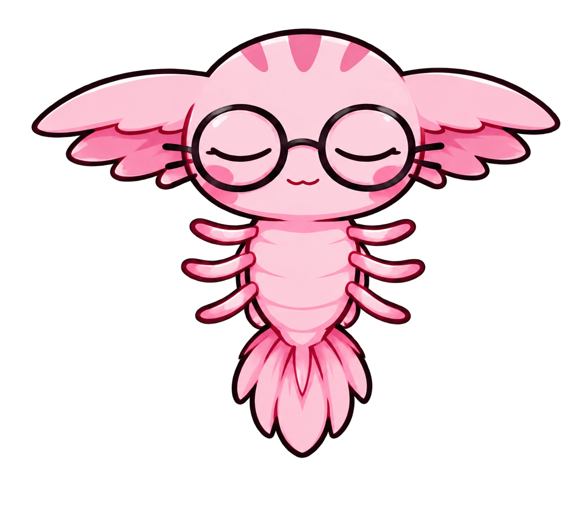
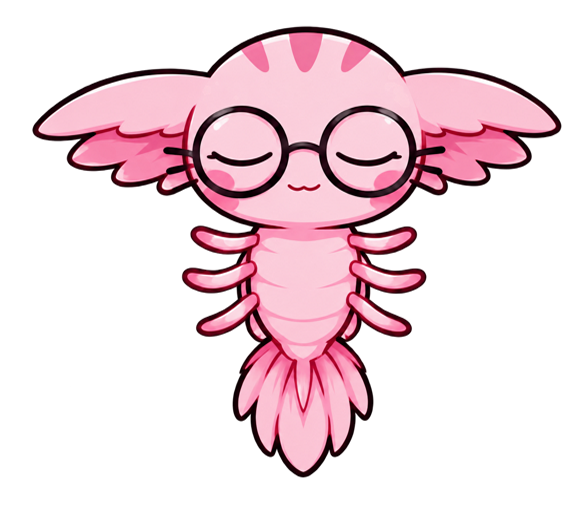
feat: add subtle awake breathing animation for Rosea

diff --git a/components/mascot/floating-mascot.tsx b/components/mascot/floating-mascot.tsx
@@ -65,6 +65,19 @@ const EXPRESSION_CROSSFADE_MS = 100;
 const SLEEP_BREATH_SCALE = 1.025;
 const SLEEP_BREATH_HALF_CYCLE = 2200; // tam döngü ≈ 4400 ms
 
+/**
+ * Uyanık nefesi: uyku nefesinden çok daha küçük ve **ayrı** bir katman.
+ *
+ * Yalnızca ölçek kullanılır — `translateX/Y` yoktur, bu yüzden kayıtlı konum,
+ * kenardan bakma mesafesi ve kenar rotasyonu hiç etkilenmez. Gövde nefes
+ * alırken hafifçe uzayıp incelir: dikeyde büyürken yatayda çok az daralır.
+ */
+const AWAKE_BREATH_SCALE_Y = 1.014;
+const AWAKE_BREATH_SCALE_X = 0.994;
+const AWAKE_BREATH_HALF_CYCLE = 1650; // tam döngü ≈ 3300 ms
+/** Koşul bozulduğunda ölçeğin tam 1'e döndüğü kısa, yumuşak geçiş. */
+const AWAKE_BREATH_RELEASE_DURATION = 260;
+
 /** Görünür karakter ölçüsü. Kare kutu + `contain` → oran bozulmadan sığar. */
 const MASCOT_SIZE = 88;
 /** Aktif antrenman ekranında set kontrollerini kapatmayan küçük mod. */
@@ -395,6 +408,12 @@ export function FloatingMascot() {
    * ayrıdır; ikisi birbirini ezmez.
    */
   const sleepScale = useSharedValue(1);
+  /**
+   * Uyanık nefes katmanı — 0 = nötr, 1 = nefesin tepesi. Uyku nefesinin
+   * `sleepScale` değerinden **ayrıdır**: ikisi asla aynı değeri yazmaz ve
+   * `!isAsleep` koşulu sayesinde aynı anda çalışamazlar.
+   */
+  const awakeBreathProgress = useSharedValue(0);
   // Tepki katmanı (tap/set/kutlama).
   const reactionY = useSharedValue(0);
   const reactionScale = useSharedValue(1);
@@ -615,7 +634,7 @@ export function FloatingMascot() {
 
   // Ambient peek effect'i `isAsleep` değerini okuduğu için uyku bloğu ondan
   // önce durur.
-  const { isAsleep, wake } = useMascotSleep({ canSleep });
+  const { isAppActive, isAsleep, wake } = useMascotSleep({ canSleep });
 
   /**
    * Uyku nefesi. Reduce Motion açıkken yalnızca `sleepy` görseline geçilir,
@@ -640,6 +659,51 @@ export function FloatingMascot() {
 
     return () => cancelAnimation(sleepScale);
   }, [isAsleep, isHidden, reduceMotion, sleepScale]);
+
+  /**
+   * Uyanık nefesi. Uyku nefesinin **tam karşılığı ama ayrı** bir katmandır:
+   * kendi shared value'sunu kullanır ve `!isAsleep` koşulu yüzünden ikisi
+   * aynı anda çalışamaz.
+   *
+   * Yalnızca ölçek animasyonudur; `translateX/Y` yoktur, bu yüzden kayıtlı
+   * konum, peek mesafesi ve kenar rotasyonu hiç değişmez. Göz kırpma farklı
+   * bir katmanda (görsel kaynağı) çalıştığı için ikisi birbirini kesmez.
+   *
+   * Koşullardan biri bozulduğu anda tekrar eden animasyon iptal edilir ve
+   * ölçek kısa, yumuşak bir geçişle tam 1'e döner.
+   */
+  const canBreathe =
+    !isHidden &&
+    isAppActive &&
+    !isAsleep &&
+    !reduceMotion &&
+    !activeReaction &&
+    !bubbleVariant &&
+    !isThinking &&
+    state !== 'dragging';
+
+  useEffect(() => {
+    if (!canBreathe) {
+      cancelAnimation(awakeBreathProgress);
+      awakeBreathProgress.value = withTiming(0, {
+        duration: AWAKE_BREATH_RELEASE_DURATION,
+        easing: Easing.out(Easing.quad),
+      });
+      return;
+    }
+
+    awakeBreathProgress.value = 0;
+    awakeBreathProgress.value = withRepeat(
+      withTiming(1, {
+        duration: AWAKE_BREATH_HALF_CYCLE,
+        easing: Easing.inOut(Easing.sin),
+      }),
+      -1,
+      true,
+    );
+
+    return () => cancelAnimation(awakeBreathProgress);
+  }, [awakeBreathProgress, canBreathe]);
 
   /**
    * Yalnızca gerçekten boşta ve kısmen gizliyken ambient peek oynar. Her yeni
@@ -783,6 +847,7 @@ export function FloatingMascot() {
       cancelAnimation(edgeRotation);
       cancelAnimation(ambientPeekProgress);
       cancelAnimation(sleepScale);
+      cancelAnimation(awakeBreathProgress);
       cancelAnimation(thinkingProgress);
       cancelAnimation(reactionY);
       cancelAnimation(reactionScale);
@@ -791,6 +856,7 @@ export function FloatingMascot() {
     },
     [
       ambientPeekProgress,
+      awakeBreathProgress,
       edgeRotation,
       peekOffsetX,
       peekOffsetY,
@@ -1460,6 +1526,24 @@ export function FloatingMascot() {
     transform: [{ scale: sleepScale.value }],
   }));
 
+  /**
+   * Uyanık nefes katmanı: yalnızca küçük `scaleX`/`scaleY`. Konum, peek ve
+   * rotasyon değerlerine hiç dokunmaz; diğer katmanların transform dizilerini
+   * ezmez.
+   *
+   * Ölçek merkezi kutunun **alt kenarındadır** (`styles.breathOrigin`). Bu
+   * katman kenar rotasyonunun içinde olduğu için "alt", maskot hangi kenarda
+   * olursa olsun karakterin yüzeyin arkasında kalan kuyruk ucudur: nefes
+   * gövdeyi ekranın içine doğru genişletir, kenardan kopuyormuş gibi
+   * görünmez.
+   */
+  const awakeBreathStyle = useAnimatedStyle(() => ({
+    transform: [
+      { scaleX: interpolate(awakeBreathProgress.value, [0, 1], [1, AWAKE_BREATH_SCALE_X]) },
+      { scaleY: interpolate(awakeBreathProgress.value, [0, 1], [1, AWAKE_BREATH_SCALE_Y]) },
+    ],
+  }));
+
   const reactionStyle = useAnimatedStyle(() => ({
     opacity: reactionOpacity.value,
     transform: [
@@ -1576,7 +1660,8 @@ export function FloatingMascot() {
         )}
 
         {/* Katmanlar:
-            Kalıcı konum → Kenardan bakma → Kenar yönü → Düşünme → Tepki → Görsel.
+            Kalıcı konum → Kenardan bakma → Kenar yönü → Düşünme → Uyku nefesi
+            → Uyanık nefesi → Tepki → Görsel.
             Her katman yalnızca kendi transform'unu sürer, hiçbiri diğerini ezmez.
             Balon ve partiküller dönüş katmanlarının dışındadır: hiç dönmezler.
             Dokunma hedefi peek katmanının içindedir, yani karakterle birlikte
@@ -1593,20 +1678,22 @@ export function FloatingMascot() {
               <Animated.View style={edgeRotationStyle}>
                 <Animated.View style={thinkingStyle}>
                   <Animated.View style={sleepStyle}>
-                    <Animated.View style={reactionStyle}>
-                      <Image
-                        accessibilityElementsHidden
-                        contentFit="contain"
-                        importantForAccessibility="no"
-                        source={resolveMascotImageSource(expression, blinkFrame)}
-                        style={{ height: mascotSize, width: mascotSize }}
-                        // Reduce Motion açıkken geçiş yok; kapalıyken yalnızca
-                        // çok kısa bir crossfade. Ölçek/konum animasyonu eklenmez.
-                        // Göz kırpma kareleri 65–90 ms sürdüğü için 100 ms'lik
-                        // crossfade onları yutardı: blink boyunca geçiş anlıktır,
-                        // normal ifade değişimleri eski davranışı korur.
-                        transition={reduceMotion || isBlinkInstant ? 0 : EXPRESSION_CROSSFADE_MS}
-                      />
+                    <Animated.View style={[styles.breathOrigin, awakeBreathStyle]}>
+                      <Animated.View style={reactionStyle}>
+                        <Image
+                          accessibilityElementsHidden
+                          contentFit="contain"
+                          importantForAccessibility="no"
+                          source={resolveMascotImageSource(expression, blinkFrame)}
+                          style={{ height: mascotSize, width: mascotSize }}
+                          // Reduce Motion açıkken geçiş yok; kapalıyken yalnızca
+                          // çok kısa bir crossfade. Ölçek/konum animasyonu eklenmez.
+                          // Göz kırpma kareleri 65–90 ms sürdüğü için 100 ms'lik
+                          // crossfade onları yutardı: blink boyunca geçiş anlıktır,
+                          // normal ifade değişimleri eski davranışı korur.
+                          transition={reduceMotion || isBlinkInstant ? 0 : EXPRESSION_CROSSFADE_MS}
+                        />
+                      </Animated.View>
                     </Animated.View>
                   </Animated.View>
                 </Animated.View>
@@ -1633,6 +1720,12 @@ const styles = StyleSheet.create({
     width: TOUCH_SIZE,
   },
   peekLayer: { height: TOUCH_SIZE, width: TOUCH_SIZE },
+  /**
+   * Uyanık nefesinin ölçek merkezi: kutunun alt orta noktası. Kenar
+   * rotasyonunun içinde olduğu için bu nokta her zaman karakterin gizli kuyruk
+   * ucudur; nefes hareketi görünen baş tarafında toplanır.
+   */
+  breathOrigin: { transformOrigin: 'center bottom' },
   touchTarget: {
     alignItems: 'center',
     height: TOUCH_SIZE,

diff --git a/hooks/use-mascot-sleep.ts b/hooks/use-mascot-sleep.ts
@@ -116,5 +116,8 @@ export function useMascotSleep({ canSleep }: Options) {
     [],
   );
 
-  return { isAsleep, wake };
+  // `isAppActive` de dışa verilir: uygulama ön planda mı bilgisini isteyen
+  // diğer maskot animasyonları (uyanık nefesi) ikinci bir AppState dinleyicisi
+  // kurmak zorunda kalmaz. Uyku davranışı bundan etkilenmez.
+  return { isAppActive, isAsleep, wake };
 }
